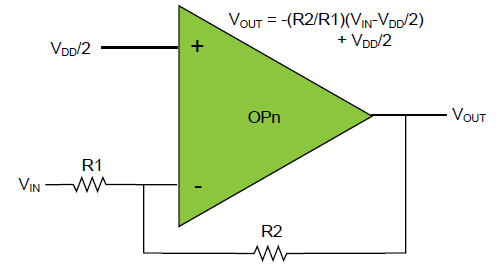
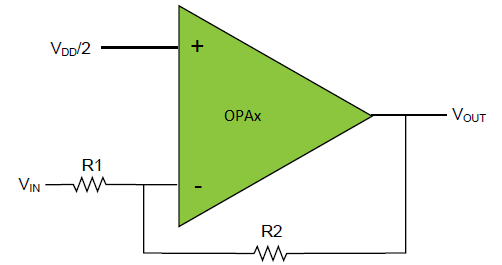
updating figure for pic18q41

Changed region(s): [[0.4482, 0.0302, 0.8665, 0.1811], [0.4482, 0.3925, 0.5677, 0.483]]

diff --git a/README.md b/README.md
@@ -5,6 +5,8 @@ The Inverting Programmable Gain Amplifier is a configuration with run-time selec
 
 ![Inverting PGA](images/configuration.png)
 
+<img src="images/inverting-gain.png" width="300"/>
+
 ### Mindi Simulation
 <img src="images/mplab-mindi-analog-simulator.png" width="100"/>
 
